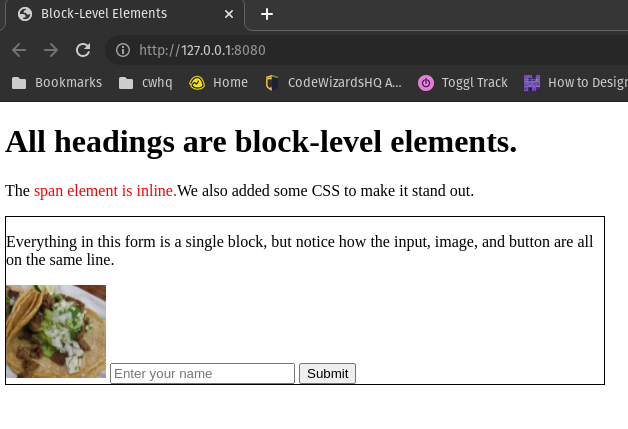
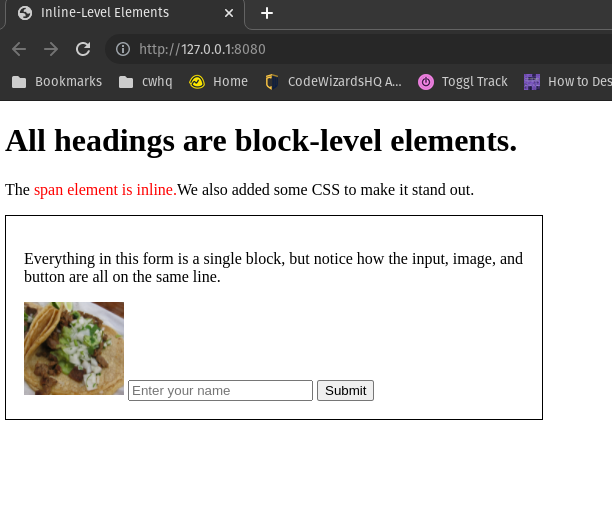
Add "Nesting Elements" example and fix small issues.

Changed region(s): [[0.0, 0.0, 1.0, 0.9091], [0.9314, 0.8788, 0.9624, 0.9091]]

diff --git a/docs/html/html.md b/docs/html/html.md
@@ -383,7 +383,7 @@ Some standard inline elements are `<span>`, `<img>`, `<button>`, and `<input>` e
 
 <html>
     <head>
-        <title>Block-Level Elements</title>
+        <title>Inline-Level Elements</title>
         <style>
             span {
                 color: red;
@@ -413,6 +413,51 @@ Some standard inline elements are `<span>`, `<img>`, `<button>`, and `<input>` e
 ```
 
 <figure markdown>
-![Block-Level Elements Example](https://github.com/codewizardshq/docs/blob/main/docs/assets/html/block-level-elements.png?raw=true){ width="100%" }
+![Inline Elements Example](https://github.com/codewizardshq/docs/blob/main/docs/assets/html/inline-level-elements.png?raw=true){ width="100%" }
+<figcaption></figcaption>
+</figure>
+
+## Nesting Elements
+
+Elements can be nested inside each other. This is most common with elements like the `<div>` and `<form>`, but you can also nest other tags, like adding content inside the `<a>` tag to make elements into links:
+
+```html
+<!DOCTYPE html>
+
+<html>
+    <head>
+        <title>Nesting Elements</title>
+    </head>
+
+    <body>
+        <div>
+            <h2>It's common to nest things inside of a div.</h2>
+            <p>Especially when you want content to be grouped together.</p>
+        </div>
+
+        <form>
+            <p>
+                Forms rely on input elements being nested inside them so the
+                information can be sent to a webserver
+            </p>
+            <input placeholder="Enter your name" />
+            <input placeholder="Enter your password" />
+            <button>Login</button>
+        </form>
+
+        <a href="https://www.example.com">
+            <p>You can nest stuff inside of anchor tags to create links.</p>
+            <p>
+                Click on anything in this green box to get taken to
+                www.example.com
+            </p>
+            <img src="taco.jpg" />
+        </a>
+    </body>
+</html>
+```
+
+<figure markdown>
+![Nesting Example](https://github.com/codewizardshq/docs/blob/main/docs/assets/html/nesting-example.png?raw=true){ width="100%" }
 <figcaption></figcaption>
 </figure>
